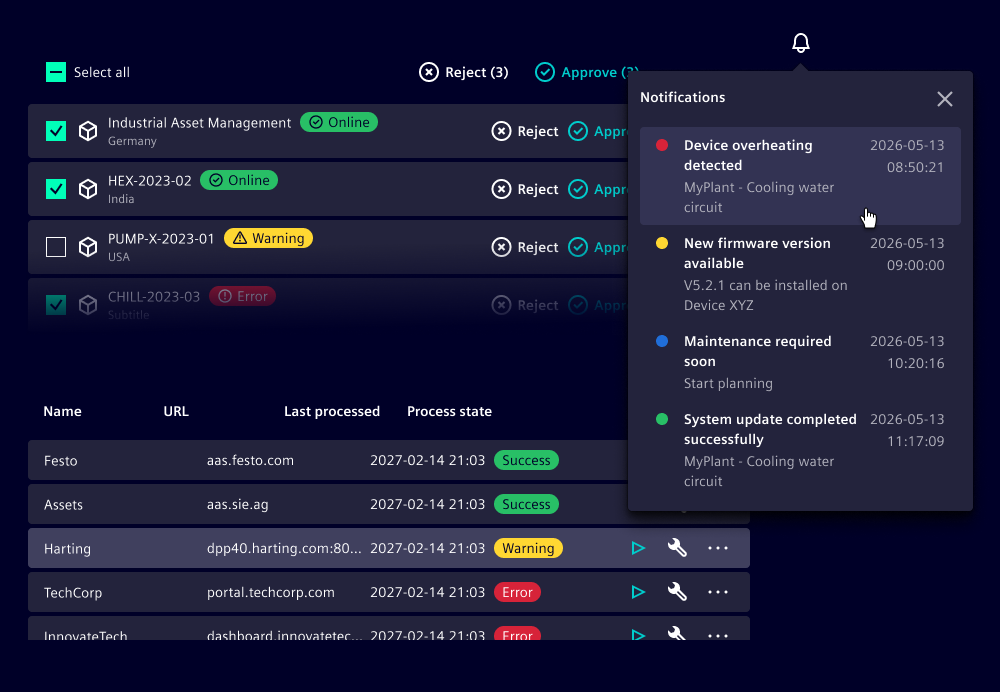
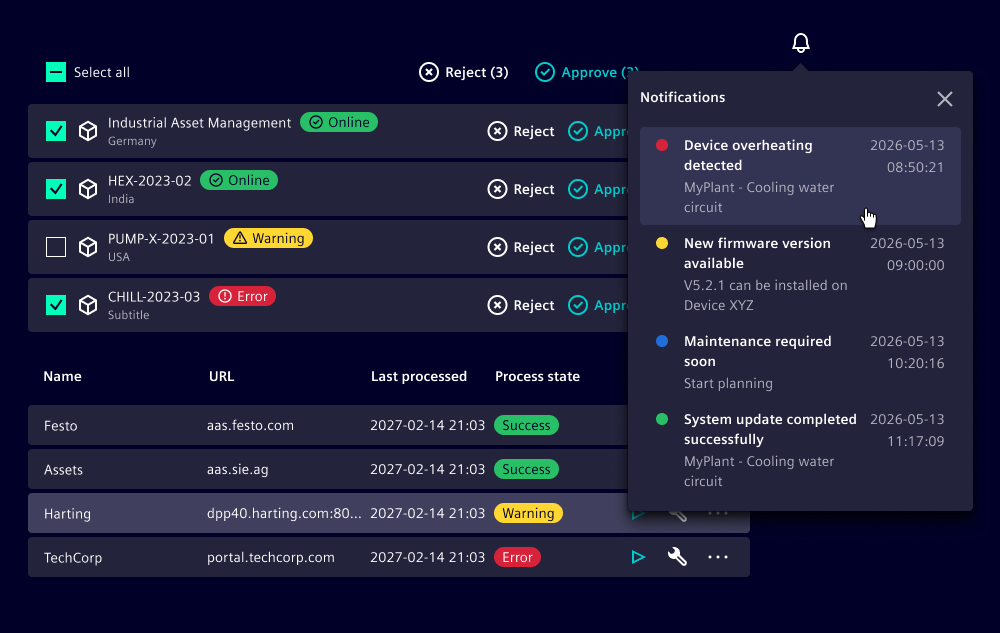
Add List sidebar tab and update Figma images
Move list to be in alphabetic order. Updated illustrations: Removed overflow gradient from 8338; added nicer lorem ipsum text to 8309

diff --git a/sidebars.ts b/sidebars.ts
@@ -456,6 +456,20 @@ const sidebars: SidebarsConfig = {
           ],
         }),
         createTabItem({
+          id: 'components/list/index',
+          label: 'List',
+          items: [
+            {
+              id: 'components/list/guide',
+              label: 'Usage',
+            },
+            {
+              id: 'components/list/code',
+              label: 'Code',
+            },
+          ],
+        }),
+        createTabItem({
           id: 'components/modal/index',
           label: 'Modal',
           items: [
@@ -510,21 +524,7 @@ const sidebars: SidebarsConfig = {
               label: 'Code',
             },
           ],
-        }),
-        createTabItem({
-          id: 'components/list/index',
-          label: 'List',
-          items: [
-            {
-              id: 'components/list/guide',
-              label: 'Usage',
-            },
-            {
-              id: 'components/list/code',
-              label: 'Code',
-            },
-          ],
-        }),
+        })
       ],
       collapsed: true,
     },
